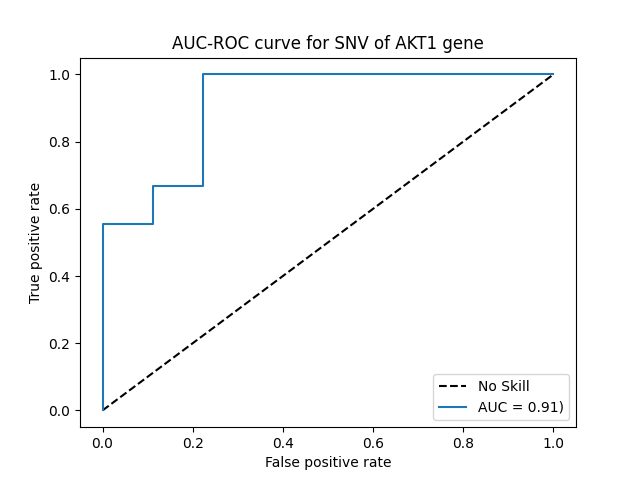
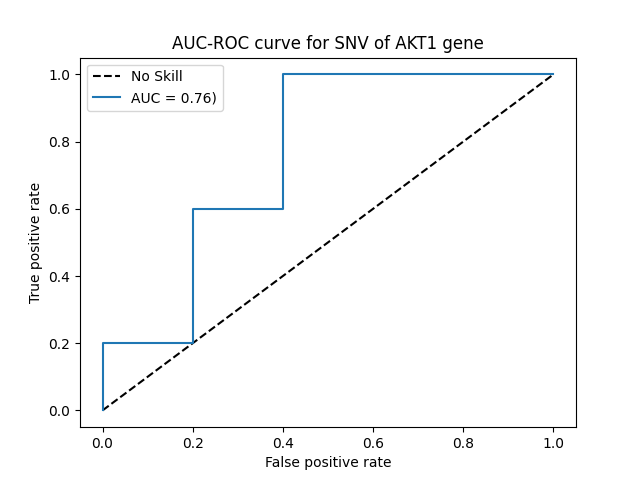
Bug fix AKT1

diff --git a/mutations/data/AKT1 SNV/inference/codes/tcga[SNV AKT1]inference.py b/mutations/data/AKT1 SNV/inference/codes/tcga[SNV AKT1]inference.py
@@ -13,10 +13,10 @@ import itertools
 
 """ Se carga el modelo de red neuronal entrenado y los distintos datos de entrada y datos de salida guardados en formato 
 'numpy' """
-model = load_model('/home/avalderas/img_slides/mutations/data/PTEN SNV/inference/models/model_data_PTEN_1000_0.59.h5')
+model = load_model('/home/avalderas/img_slides/mutations/data/AKT1 SNV/inference/models/model_data_AKT1_1000_0.67.h5')
 
-test_data = np.load('/home/avalderas/img_slides/mutations/data/PTEN SNV/inference/test data/test_data.npy')
-test_labels = np.load('/home/avalderas/img_slides/mutations/data/PTEN SNV/inference/test data/test_labels.npy')
+test_data = np.load('/home/avalderas/img_slides/mutations/data/AKT1 SNV/inference/test data/test_data.npy')
+test_labels = np.load('/home/avalderas/img_slides/mutations/data/AKT1 SNV/inference/test data/test_labels.npy')
 
 """ Una vez entrenado el modelo, se puede evaluar con los datos de test y obtener los resultados de las métricas
 especificadas en el proceso de entrenamiento. En este caso, se decide mostrar los resultados de la 'loss', la exactitud,

diff --git a/mutations/image/BRCA CNV-D/training/image[CNV-D BRCA]training.py b/mutations/image/BRCA CNV-D/training/image[CNV-D BRCA]training.py
@@ -409,8 +409,8 @@ test_labels = np.asarray(test_labels).astype('float32')
 
 """ Se pueden guardar en formato de 'numpy' las imágenes y las etiquetas de test para usarlas después de entrenar la red
 neuronal convolucional. """
-np.save('test_image', test_image_data)
-np.save('test_labels', test_labels)
+#np.save('test_image', test_image_data)
+#np.save('test_labels', test_labels)
 
 """ Data augmentation """
 train_aug = ImageDataGenerator(horizontal_flip = True, zoom_range = 0.2, rotation_range = 10, vertical_flip = True)
